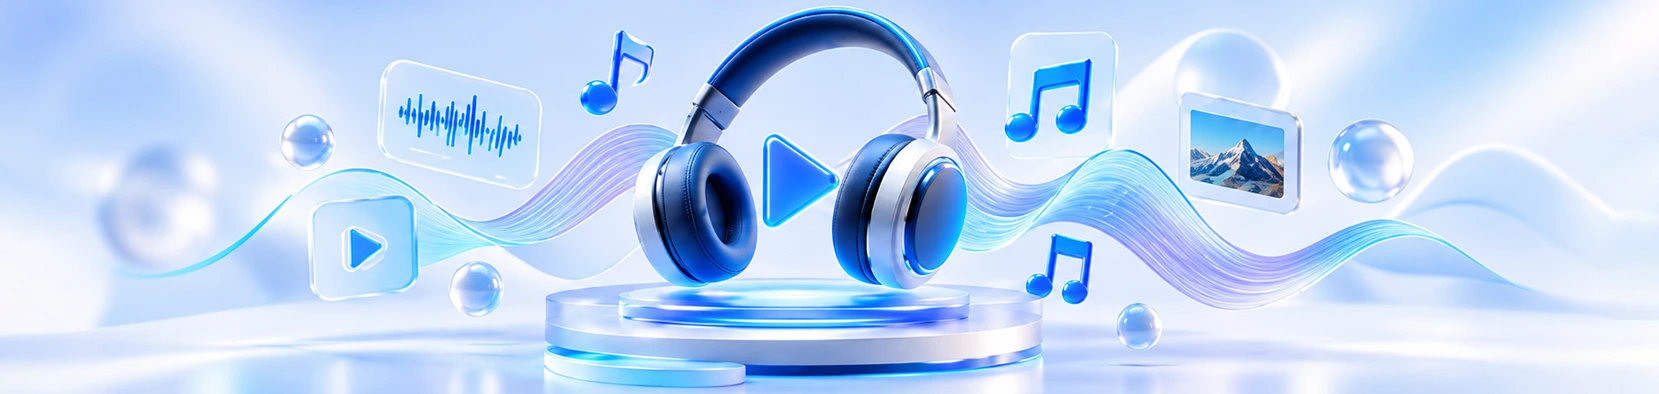
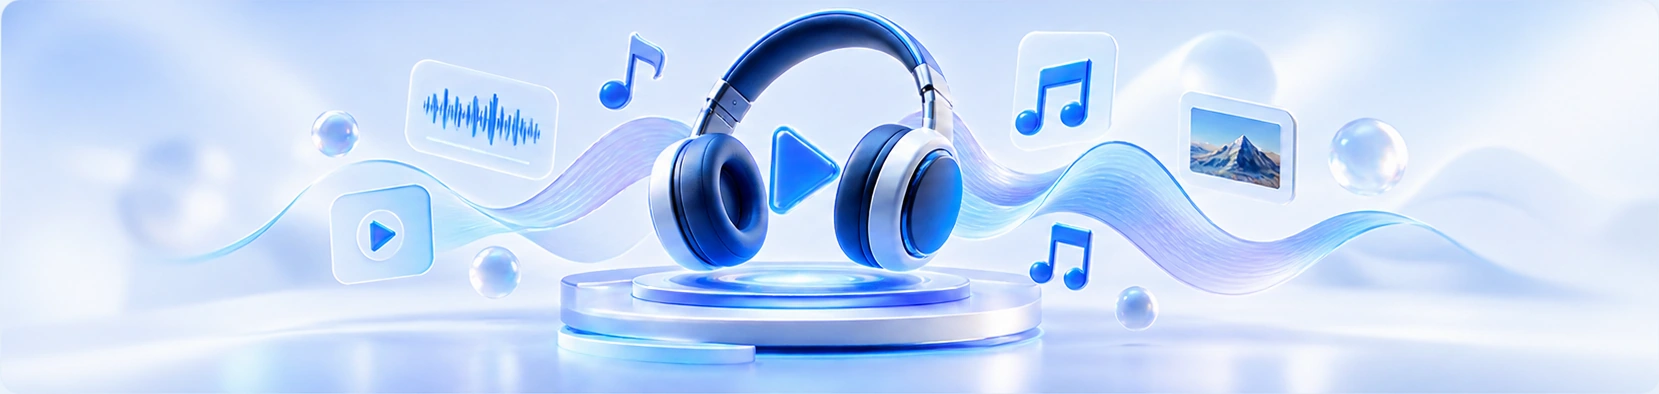
y

diff --git a/narration-addon.js b/narration-addon.js
@@ -15,9 +15,47 @@ async function narrationFetch(body){
  if(r.status===401)narrationPin='';
  return r;
 }
+
+// V0336: Native browser prompt replaced with an accessible Persian modal.
+function rfNarrationPasswordDialog(){
+ return new Promise(resolve=>{
+  const overlay=document.createElement('div');
+  overlay.id='rfNarrationLoginOverlay';
+  overlay.setAttribute('role','presentation');
+  overlay.innerHTML=`<div class="rf-nr-login" role="dialog" aria-modal="true" aria-labelledby="rfNrLoginTitle" dir="rtl">
+    <div class="rf-nr-login-icon" aria-hidden="true">🎙</div>
+    <h2 id="rfNrLoginTitle">ورود به بخش نریشن</h2>
+    <p>برای ورود، رمز دسترسی نریشن را وارد کنید.</p>
+    <form id="rfNrLoginForm"><label for="rfNrLoginPassword">رمز ورود</label>
+    <input id="rfNrLoginPassword" type="password" autocomplete="off" required placeholder="رمز ورود را وارد کنید" />
+    <div class="rf-nr-login-actions"><button type="submit">تأیید</button><button type="button" id="rfNrLoginCancel">انصراف</button></div></form>
+  </div>`;
+  const style=document.createElement('style');
+  style.id='rfNrLoginStyle';
+  style.textContent=`#rfNarrationLoginOverlay{position:fixed;inset:0;z-index:2147483646;background:rgba(5,24,48,.55);display:flex;align-items:center;justify-content:center;padding:20px;backdrop-filter:blur(4px)}
+  #rfNarrationLoginOverlay *{box-sizing:border-box}#rfNarrationLoginOverlay .rf-nr-login{width:min(100%,410px);background:#fff;border:1px solid #dbe8f8;border-radius:22px;box-shadow:0 24px 70px #051e4666;padding:22px 26px 24px;font-family:inherit;text-align:right;color:#143455}
+  #rfNarrationLoginOverlay .rf-nr-login-icon{width:38px;height:38px;display:grid;place-items:center;border-radius:12px;background:#edf6ff;font-size:21px;margin:0 0 6px 12px;float:right}
+  #rfNarrationLoginOverlay h2{font-size:19px;margin:4px 0 9px;color:#102f54;min-height:32px;display:flex;align-items:center}#rfNarrationLoginOverlay p{font-size:13px;color:#637e99;line-height:1.9;margin:0 0 17px;clear:both}
+  #rfNarrationLoginOverlay label{display:block;font-size:13px;font-weight:700;margin-bottom:9px}#rfNarrationLoginOverlay input{width:100%;height:48px;padding:10px 14px;border:1px solid #cbdced;border-radius:12px;background:#f8fbff;outline:none;font:inherit;direction:ltr;text-align:left}
+  #rfNarrationLoginOverlay input:focus{border-color:#1681ed;box-shadow:0 0 0 3px #1681ed22}#rfNarrationLoginOverlay .rf-nr-login-actions{display:flex;gap:10px;margin-top:20px}
+  #rfNarrationLoginOverlay button{flex:1;border:0;border-radius:12px;padding:13px;font:inherit;font-size:13px;font-weight:700;cursor:pointer}#rfNarrationLoginOverlay button[type=submit]{background:#0879ed;color:white}#rfNarrationLoginOverlay #rfNrLoginCancel{background:#edf3fa;color:#375a7b}`;
+  document.head.appendChild(style);document.body.appendChild(overlay);
+  const input=overlay.querySelector('#rfNrLoginPassword');
+  const previousFocus=document.activeElement;
+  let closed=false;
+  const close=value=>{if(closed)return;closed=true;document.removeEventListener('keydown',onKey,true);overlay.remove();style.remove();if(previousFocus&&previousFocus.isConnected)previousFocus.focus();resolve(value)};
+  const onKey=e=>{if(e.key==='Escape'){e.preventDefault();close(null)}else if(e.key==='Tab'){const btns=[input,overlay.querySelector('button[type=submit]'),overlay.querySelector('#rfNrLoginCancel')];const i=btns.indexOf(document.activeElement);if(e.shiftKey&&i===0){e.preventDefault();btns[2].focus()}else if(!e.shiftKey&&i===2){e.preventDefault();btns[0].focus()}}};
+  document.addEventListener('keydown',onKey,true);
+  overlay.querySelector('#rfNrLoginForm').addEventListener('submit',e=>{e.preventDefault();const value=input.value.trim();if(value)close(value)});
+  overlay.querySelector('#rfNrLoginCancel').addEventListener('click',()=>close(null));
+  overlay.addEventListener('click',e=>{if(e.target===overlay)close(null)});
+  input.focus();
+ });
+}
+
 async function enterNarration(){
  if(narrationPin){show();return;}
- const pin=window.prompt('رمز ورود به بخش نریشن را وارد کنید:');
+ const pin=await rfNarrationPasswordDialog();
  if(pin===null||!pin.trim())return;
  try{
   const r=await fetch('/api/narration',{method:'POST',headers:{'Content-Type':'application/json','X-Narration-Pin':pin.trim()},body:JSON.stringify({action:'voices'})});
